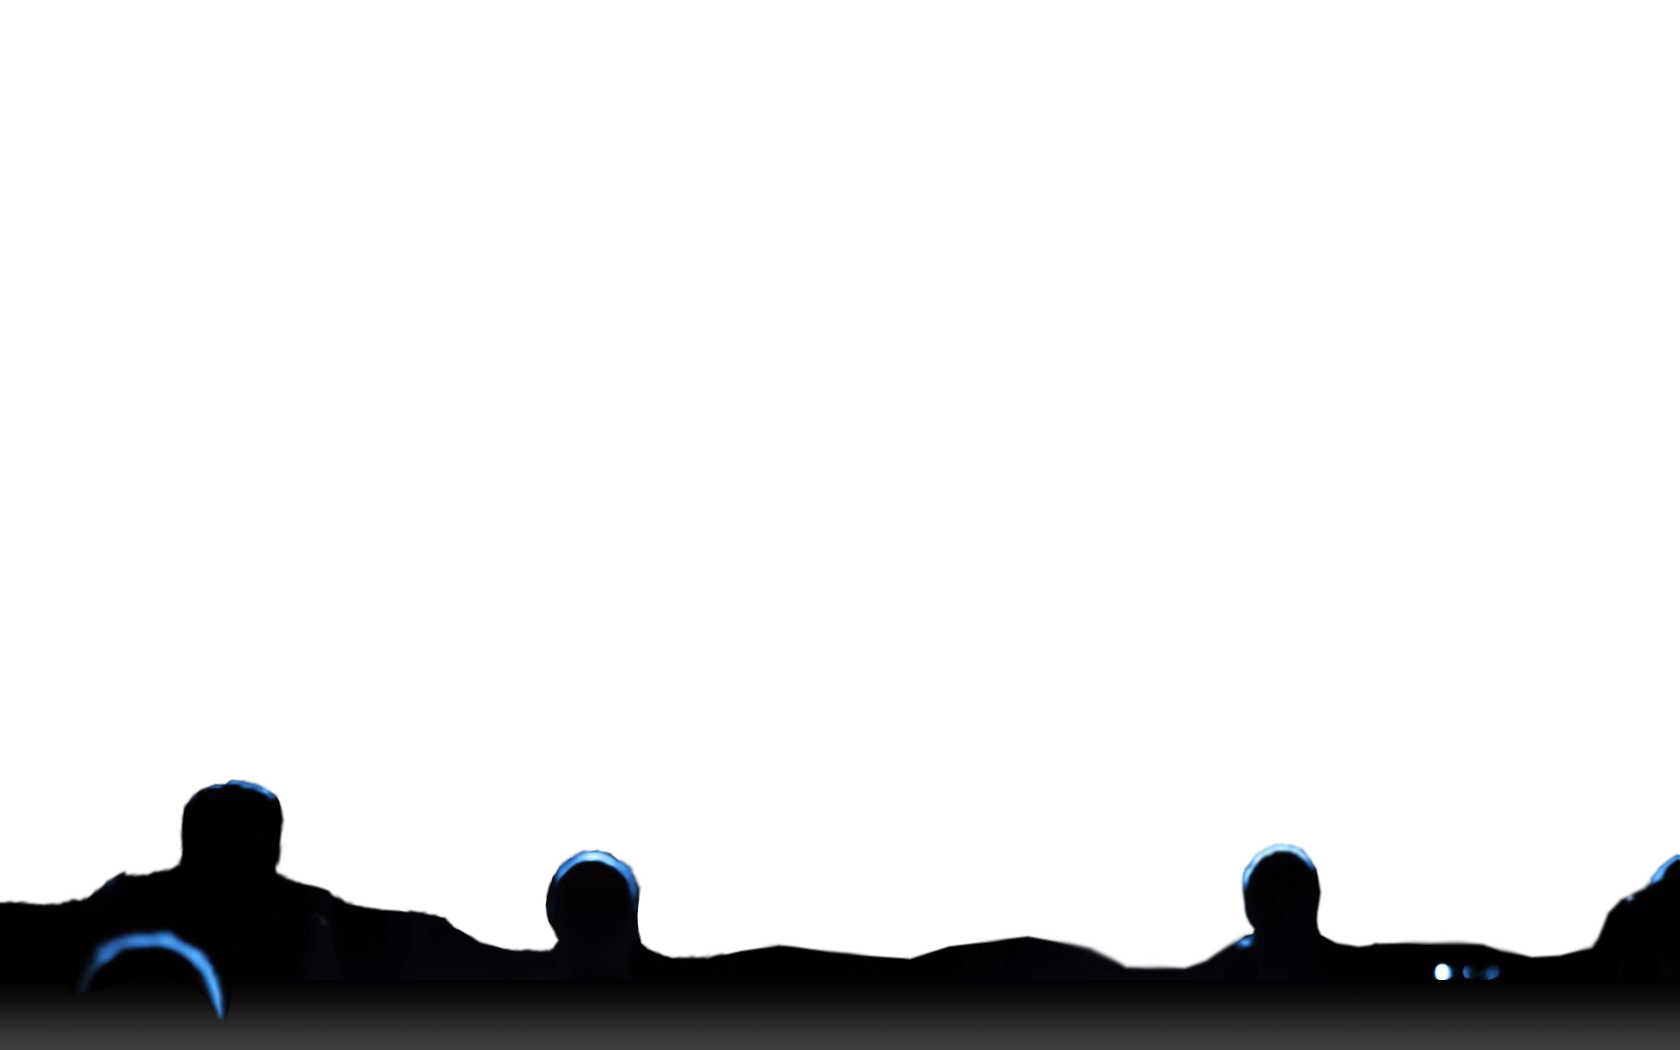
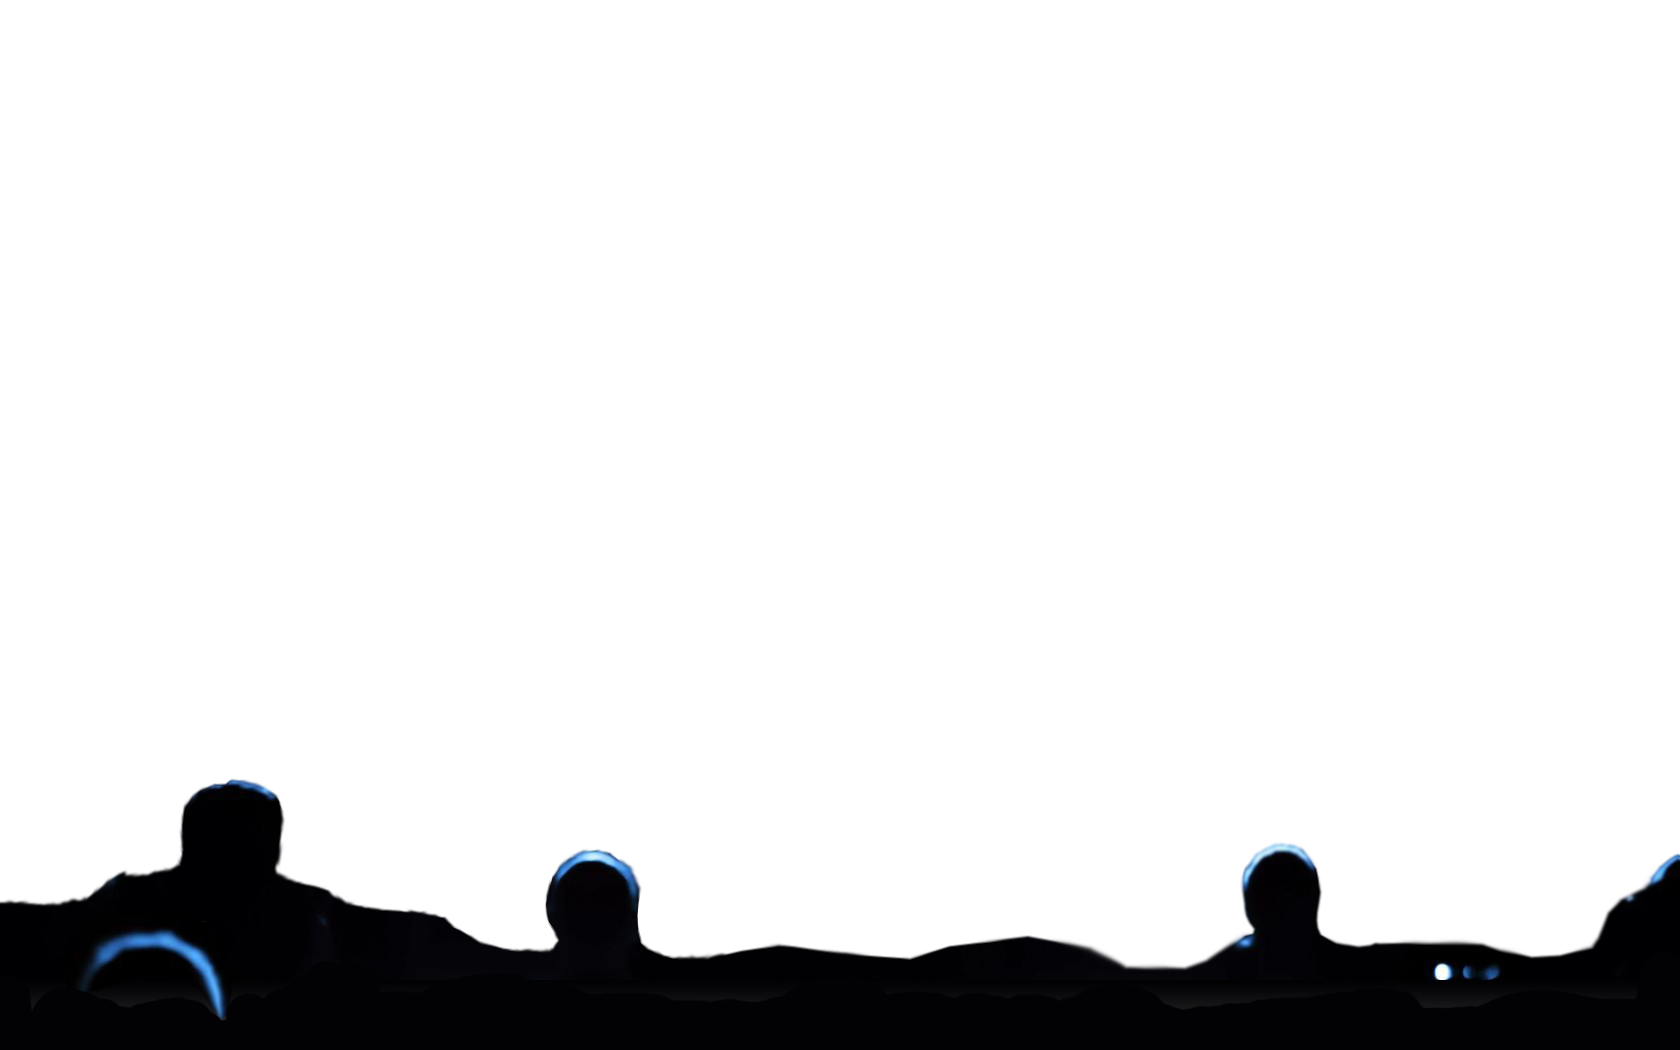
Applied some improvements, and working on Album-Detail Page. Solved som problems related to re-sizing content on ng-resources
(cherry picked from commit 774b513)

Changed region(s): [[0.0, 0.9448, 1.0, 1.0]]

diff --git a/src/main/webapp/app/entities/album/album-detail.html b/src/main/webapp/app/entities/album/album-detail.html
@@ -1,41 +1,28 @@
 
 <div>
-    <h2><span data-translate="dubionApp.album.detail.title">Album</span> {{vm.album.id}}</h2>
-    <hr>
-    <jhi-alert-error></jhi-alert-error>
-    <dl class="dl-horizontal jh-entity-details">
-        <dt><span data-translate="dubionApp.album.name">Name</span></dt>
-        <dd>
-            <span>{{vm.album.name}}</span>
-        </dd>
-        <dt><span data-translate="dubionApp.album.releaseDate">Release Date</span></dt>
-        <dd>
-            <span>{{vm.album.releaseDate | date:'mediumDate'}}</span>
-        </dd>
-        <dt><span data-translate="dubionApp.album.photo">Photo</span></dt>
-        <dd>
-            <span>{{vm.album.photo}}</span>
-        </dd>
-        <dt><span data-translate="dubionApp.album.band">Band</span></dt>
-        <dd>
-            <a ui-sref="band-detail({id:vm.album.band.id})">{{vm.album.band.name}}</a>
-        </dd>
-        <dt><span data-translate="dubionApp.album.genre">Genre</span></dt>
-        <dd>
-            <span ng-repeat="genre in vm.album.genres">
-                <a ui-sref="genre-detail({id: genre.id})">{{genre.name}}</a>{{$last ? '' : ', '}}
-            </span>
-        </dd>
-    </dl>
-
+    <div class="col-sm-4">
+        <img  src="{{vm.album.photo}}" style="width:  100%";>
+    </div>
+    <div class="col-sm-8">
+        <h2><a ui-sref="band-detail({id:vm.album.band.id})">{{vm.album.band.name}}</a> - {{vm.album.name}}</h2>
+        <!--<h2><span data-translate="dubionApp.album.detail.title">Album</span> {{vm.album.id}}</h2>-->
+        <hr>
+        <jhi-alert-error></jhi-alert-error>
+        <dl>
+            <span data-translate="dubionApp.album.releaseDate">Release Date</span>: <span>{{vm.album.releaseDate | date:'mediumDate'}}</span>
+            <span data-translate="dubionApp.album.genre">Genre</span>: <span ng-repeat="genre in vm.album.genres"> <a ui-sref="genre-detail({id: genre.id})">{{genre.name}}</a>{{$last ? '' : ', '}}</span>
+        </dl>
+        <dl> <span ng-repeat="song in vm.album.song"> <a ui-sref="song-detail({id: song.id})">{{song.name}}</a>{{$last ? '' : ', '}}</span></dl>
+    </div>
+    <div class="col-sm-12">
     <button type="submit"
             ui-sref="{{ vm.previousState }}"
             class="btn btn-info">
         <span class="glyphicon glyphicon-arrow-left"></span>&nbsp;<span data-translate="entity.action.back"> Back</span>
     </button>
-
     <button type="button" ui-sref="album-detail.edit({id:vm.album.id})" class="btn btn-primary">
         <span class="glyphicon glyphicon-pencil"></span>
         <span class="hidden-sm-down" data-translate="entity.action.edit"> Edit</span>
     </button>
+    </div>
 </div>

diff --git a/src/main/webapp/content/css/secundary.css b/src/main/webapp/content/css/secundary.css
@@ -26,20 +26,19 @@
     width: 100%;
 }
 #BackgroundTopGrey{
-    background-color: #3E3E3E;
+    background-color: #000000;
     height: 500px;
     width: 100%;
 }
 #BackgroundFootGrey{
     position: relative;
-    background-color: #3E3E3E;
+    background-color: #000000;
     bottom: 0;
     height: 500px;
     width: 100%;
 }
-
 .degrdaded {
-    height: 60px;
+    height: 10px;
     margin-top: 450px;
     /* Permalink - use to edit and share this gradient: http://colorzilla.com/gradient-editor/#7db9e8+0,b6b6b6+100&0+0,1+98 */
     background: -moz-linear-gradient(top, rgba(125, 185, 232, 0) 0%, rgba(181, 182, 183, 1) 98%, rgba(182, 182, 182, 1) 100%); /* FF3.6-15 */
@@ -47,7 +46,6 @@
     background: linear-gradient(to bottom, rgba(125, 185, 232, 0) 0%, rgba(181, 182, 183, 1) 98%, rgba(182, 182, 182, 1) 100%); /* W3C, IE10+, FF16+, Chrome26+, Opera12+, Safari7+ */
     filter: progid:DXImageTransform.Microsoft.gradient(startColorstr='#007db9e8', endColorstr='#b6b6b6', GradientType=0); /* IE6-9 */
 }
-
 #imgBanner1{
     width: 100%;
     height: 100%;

diff --git a/src/main/java/com/dubion/web/rest/GenreResource.java b/src/main/java/com/dubion/web/rest/GenreResource.java
@@ -49,7 +49,7 @@ public class GenreResource {
      * @return the ResponseEntity with status 201 (Created) and with body the new genre, or with status 400 (Bad Request) if the genre has already an ID
      * @throws URISyntaxException if the Location URI syntax is incorrect
      */
-    @PostMapping("/genres")
+    @PostMapping("/genres4")
     @Timed
     public ResponseEntity<Genre> createGenre(@RequestBody Genre genre) throws URISyntaxException {
         log.debug("REST request to save Genre : {}", genre);
@@ -71,7 +71,7 @@ public class GenreResource {
      * or with status 500 (Internal Server Error) if the genre couldn't be updated
      * @throws URISyntaxException if the Location URI syntax is incorrect
      */
-    @PutMapping("/genres")
+    @PutMapping("/genres5")
     @Timed
     public ResponseEntity<Genre> updateGenre(@RequestBody Genre genre) throws URISyntaxException {
         log.debug("REST request to update Genre : {}", genre);
